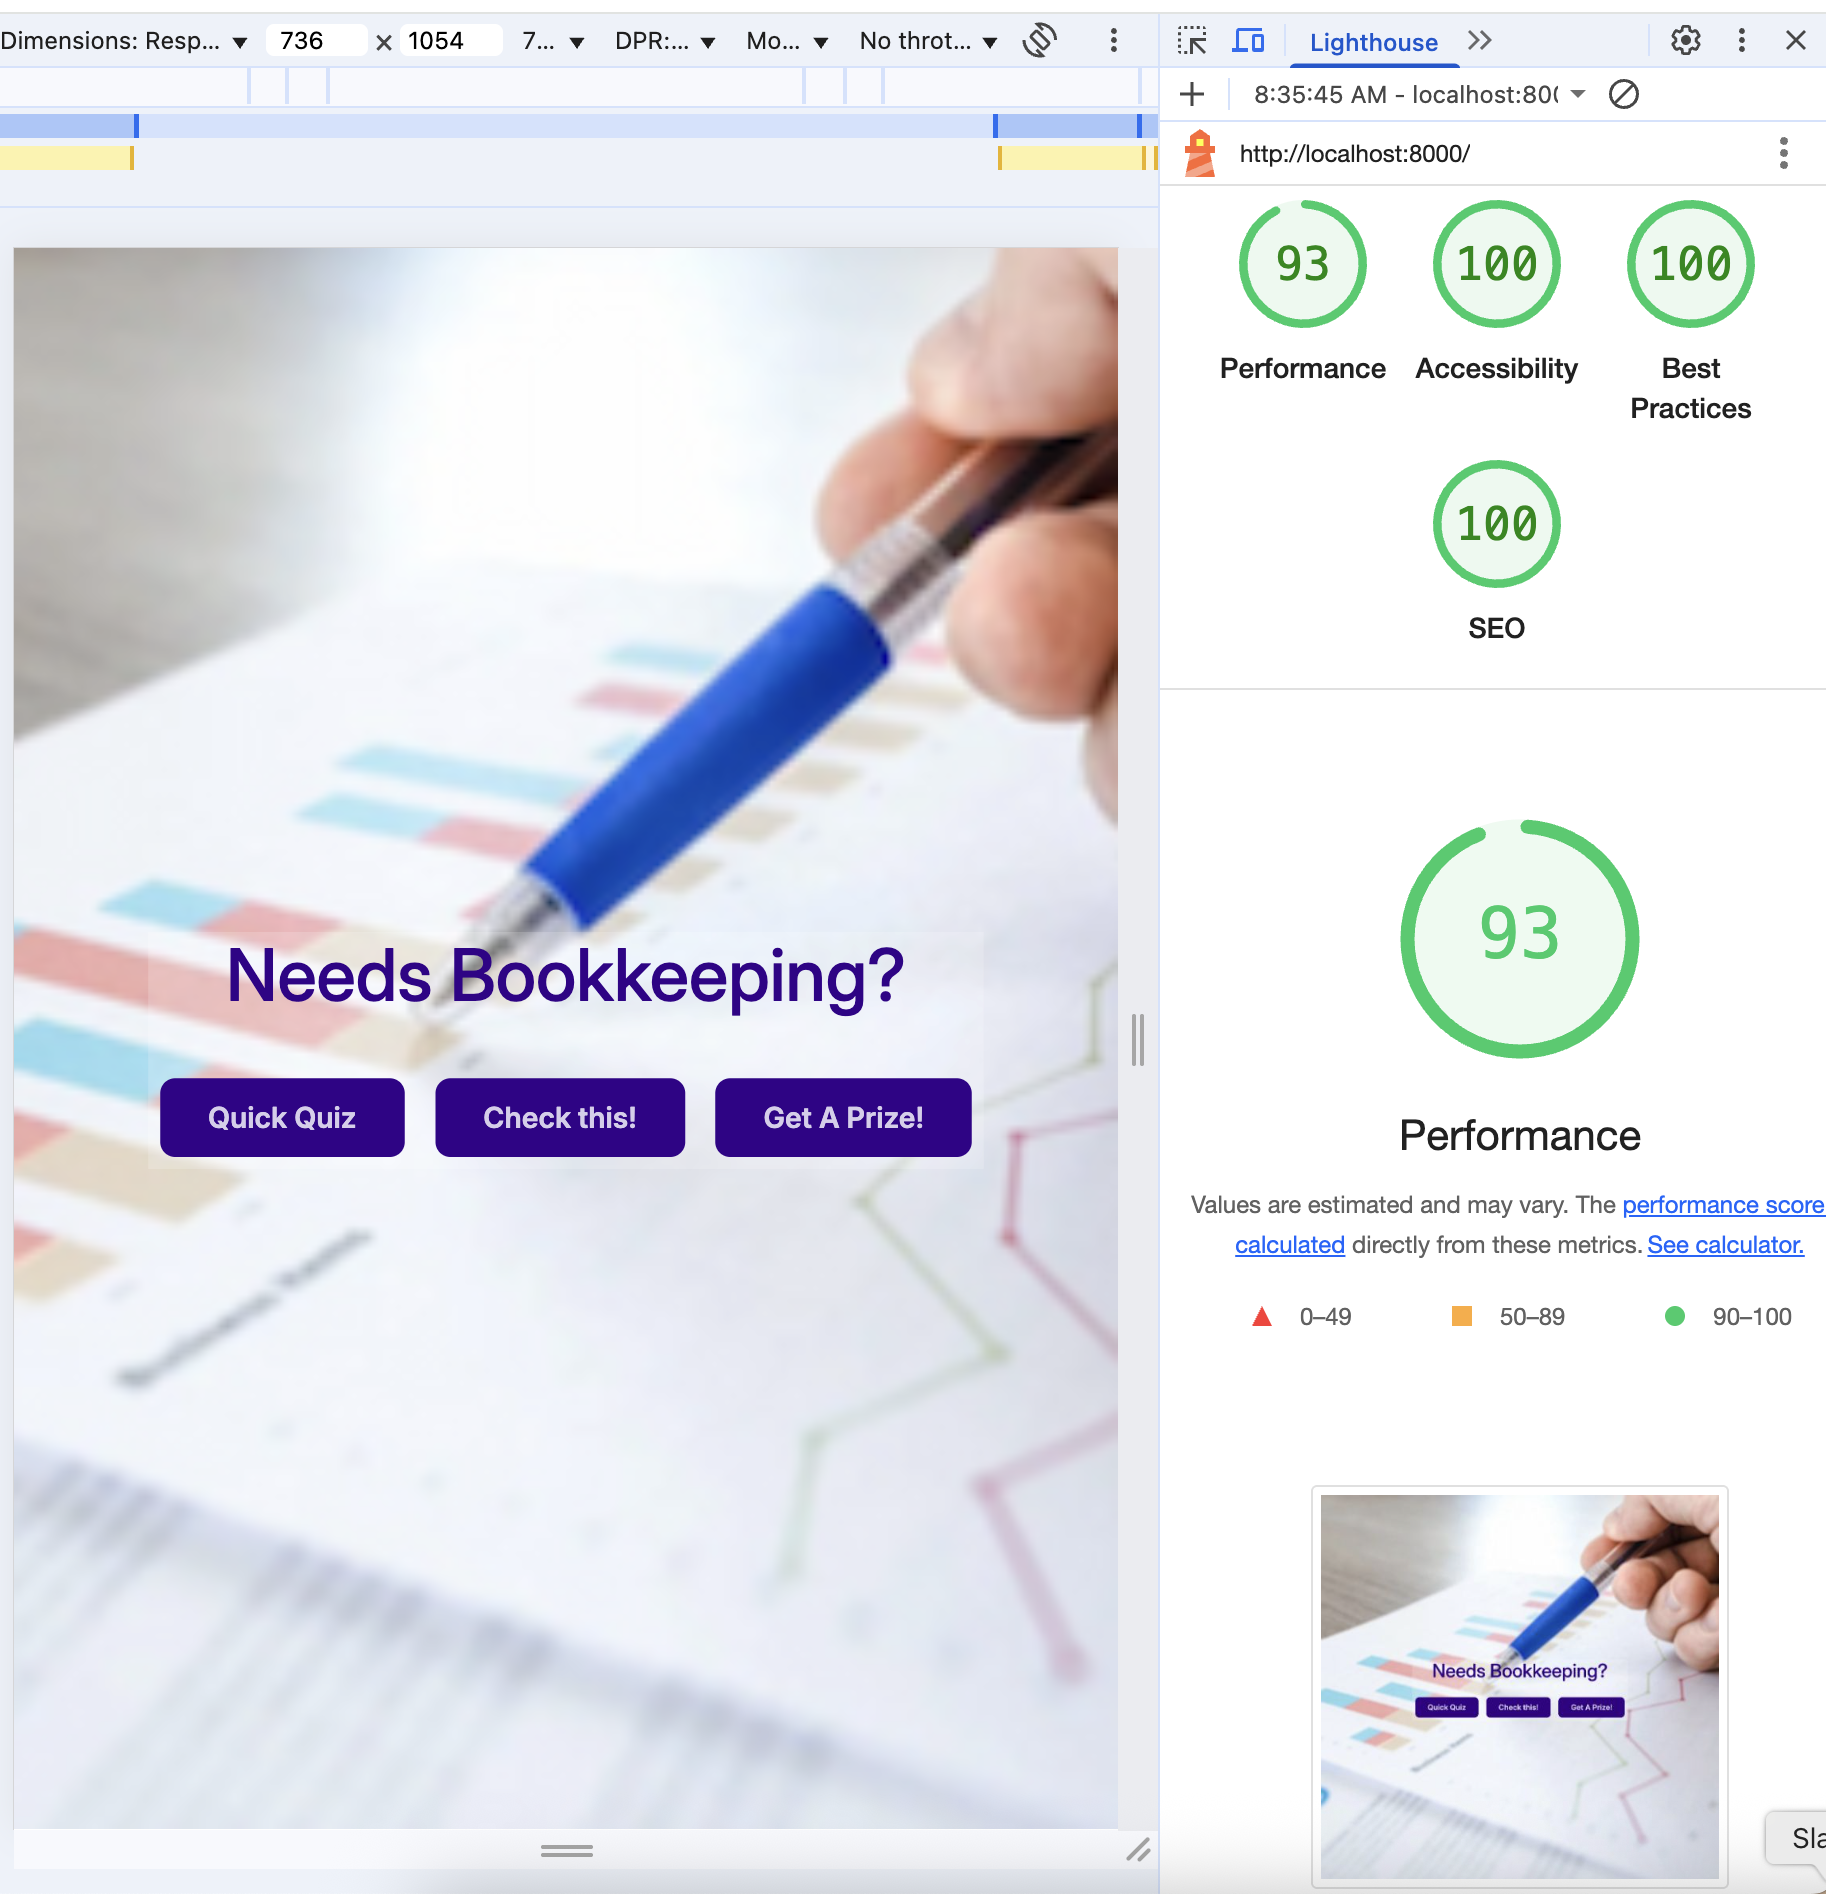
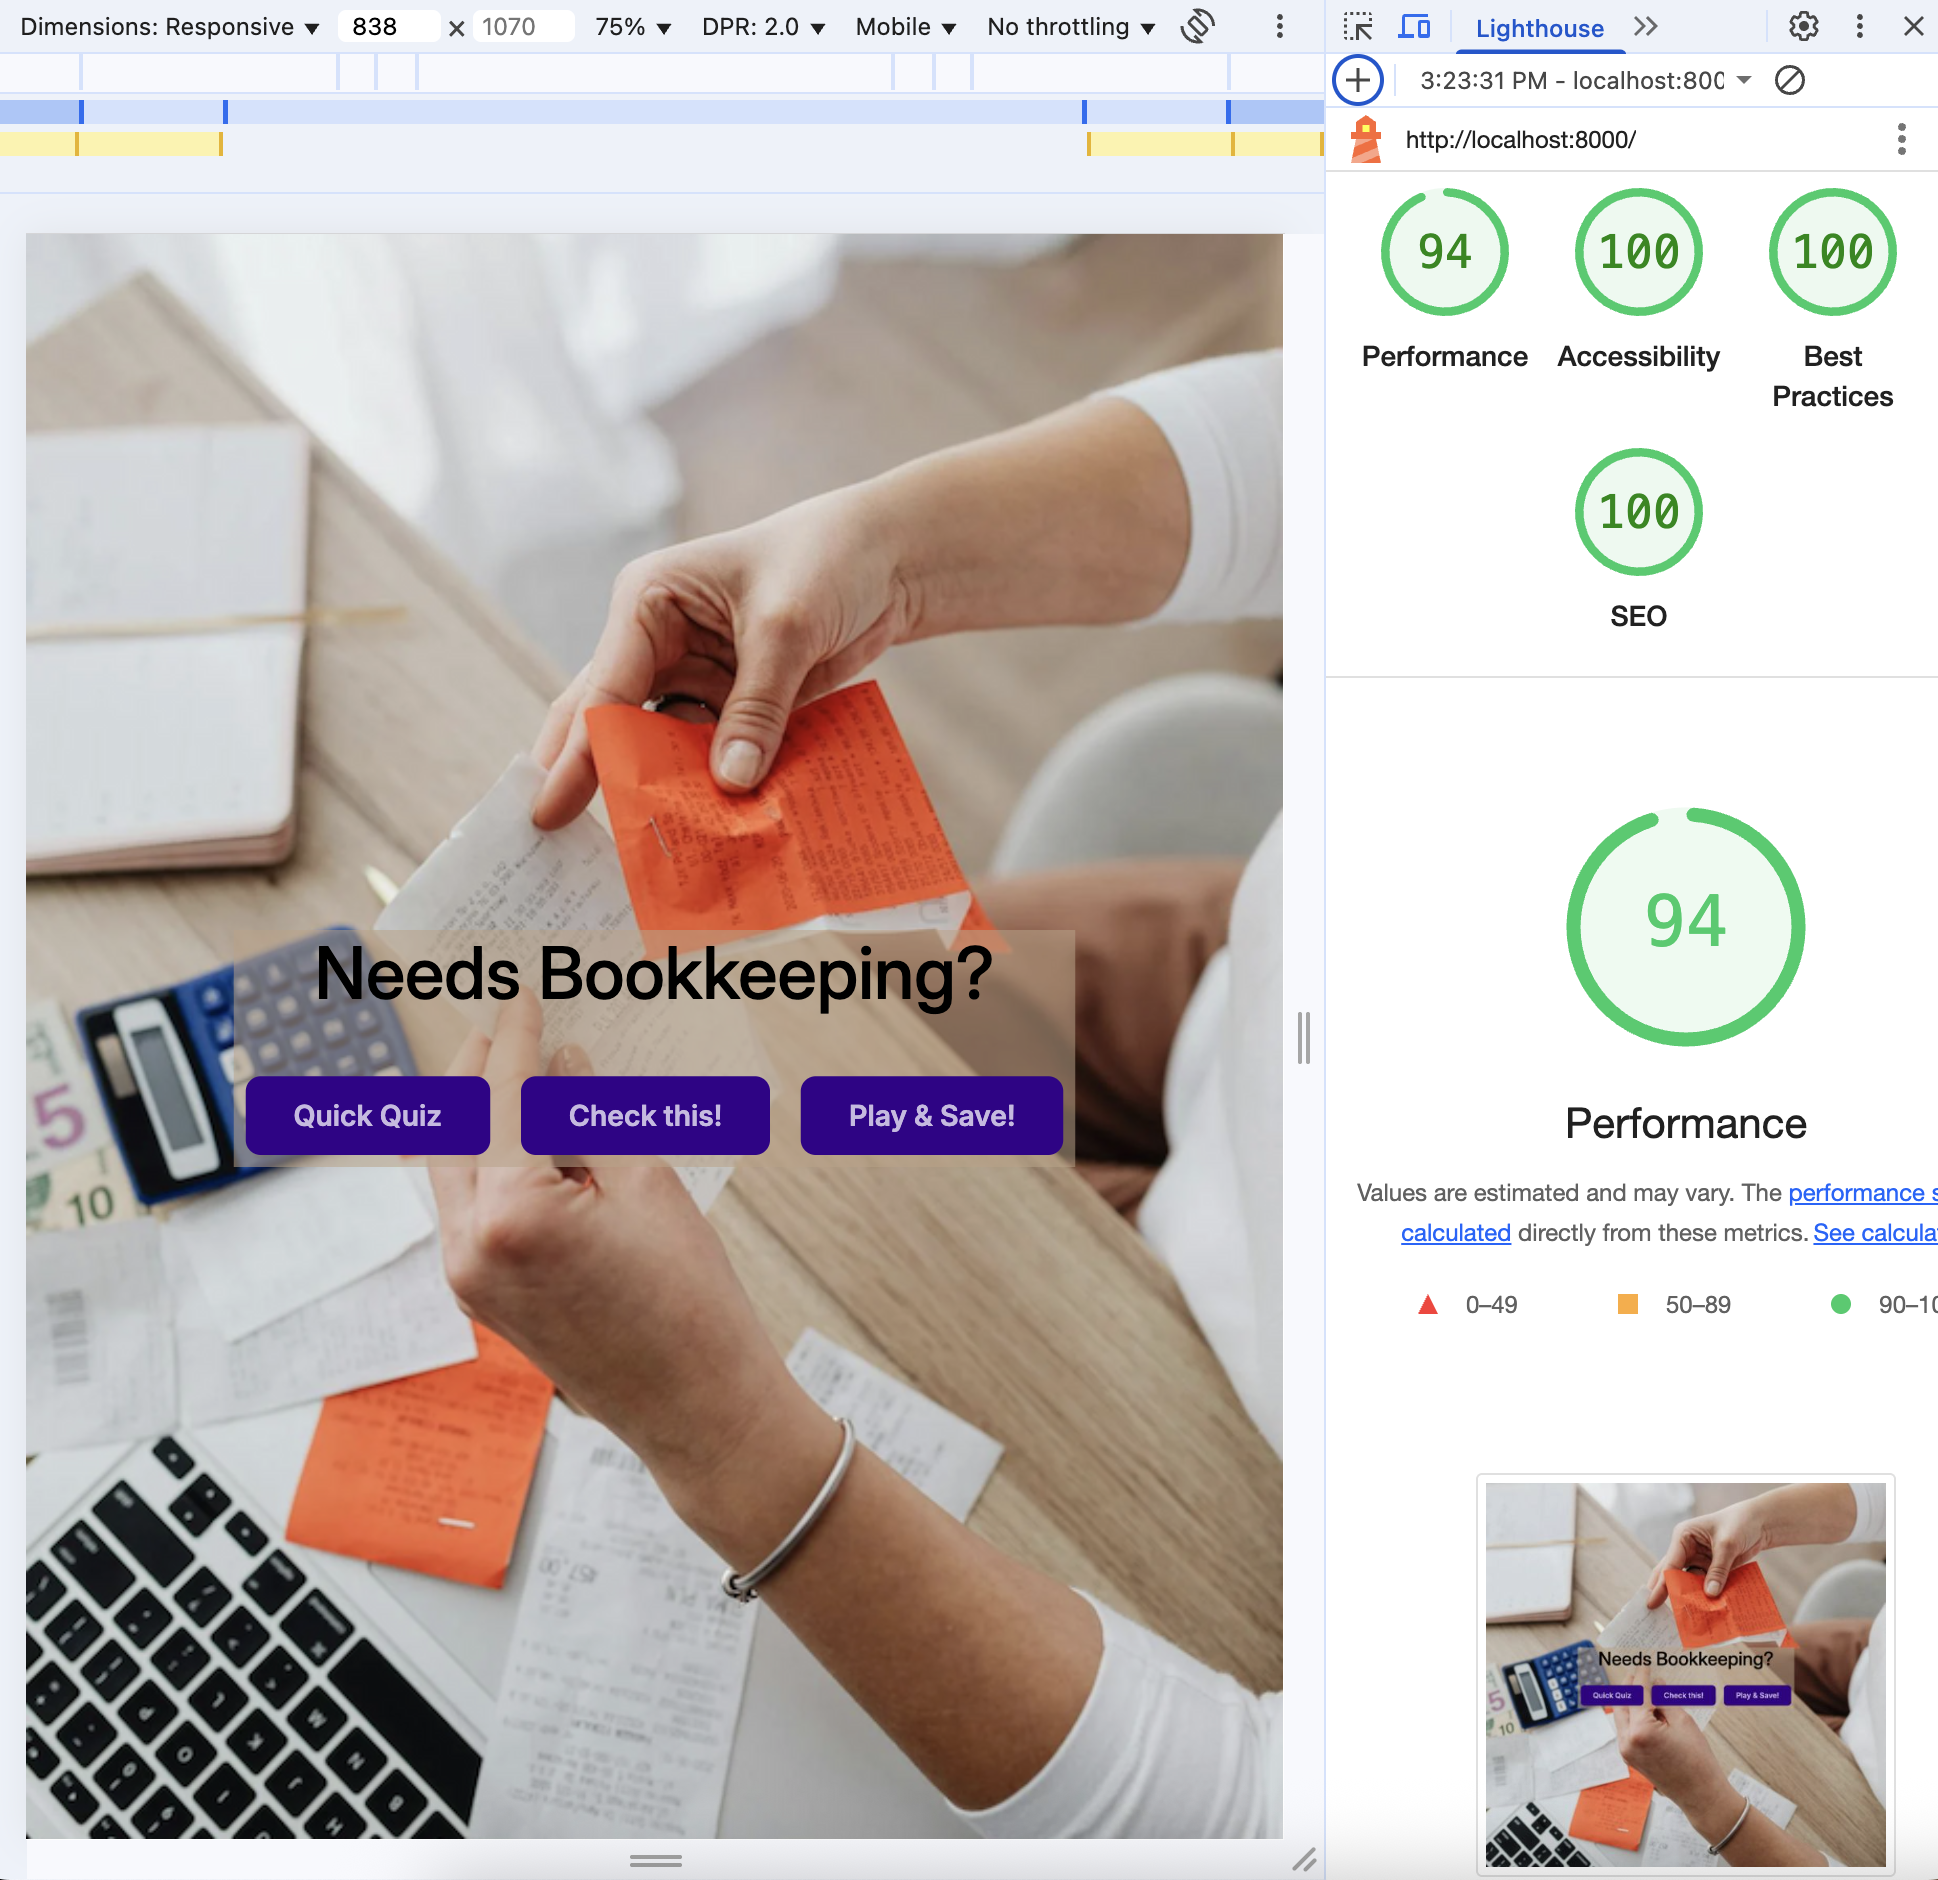
adding img to website and features

diff --git a/assets/js/format1040.js b/assets/js/format1040.js
@@ -1066,7 +1066,7 @@ document.addEventListener("DOMContentLoaded", function () {
         document.getElementById("cssnFbk").innerText = "";
         document.getElementById("ssnPreview").style.display = "none";
         document.getElementById("idPreview").style.display = "none";
-      }, 3000);
+      }, 4000);
     });
     
 

diff --git a/README.md b/README.md
@@ -273,7 +273,7 @@ _Main color palette_
 
 Headline Prompt:
 
-- "Needs Bookkeeping?" – A clear, central question targeting the user’s intent.
+- HOME: "Needs Bookkeeping?" – A clear, central question targeting the user’s intent.
 
 - Background Image: A professional, finance-related image (charts and a hand with a pen) that supports the bookkeeping theme.
 
@@ -293,7 +293,7 @@ Headline Prompt:
 
 - Transparent background or slight blur behind text for better readability on the image.
   
-![quickQuiz_page](assets/images/readme/quickQuiz.png)
+![quickQuiz_page](assets/images/readme/Webpgs/home.png)
 
 
 #### Quiz
@@ -314,8 +314,8 @@ If the score suggests the user might need help (> 6 pts), they are redirected to
 The clean UI, transparent card background, and motivating CTA buttons make the experience smooth and user-friendly.
 
 
-![quiz_page1](assets/images/readme/quiz-p1.png)
-![quiz_page2](assets/images/readme/quiz-p2a.png)
+![quiz_page1](assets/images/readme/Webpgs/quiz-p1.png)
+![quiz_page2](assets/images/readme/Webpgs/quiz-P2a.png)
 
 #### Feedback
 
@@ -343,7 +343,7 @@ A supportive summary that explains the result:
   - Clear visual hierarchy with bold headlines, informative content, and strong CTAs.
   - Colorful, accessible buttons for quick action.
 
-![feedback_page](assets/images/readme/feedback.png)
+![feedback_page](assets/images/readme/Webpgs/feedback.png)
 
 #### Format 1040
 
@@ -387,15 +387,24 @@ Submission Feedback
 - Success Message: Large, bold confirmation banner: “SUCCESS! Form submitted successfully!”
 - Submit Button: Dark Res and hover styled in yellow with strong contrast and clear call to action.
 
-![Format 1040_page](assets/images/readme/f.png)
-![Format 1040_page](assets/images/readme/f1.png)
-![Format 1040_page](assets/images/readme/f2.png)
-![Format 1040_page](assets/images/readme/f3.png)
-![Format 1040_page](assets/images/readme/f4.png)
-![Format 1040_page](assets/images/readme/f5.png)
-![Format 1040_page](assets/images/readme/f6.png)
-![Format 1040_page](assets/images/readme/f7.png)
+![Format 1040_page](assets/images/readme/fF1040/format1040.png)
+![Format 1040_page](assets/images/readme/fF1040/fi.png)
+![Format 1040_page](assets/images/readme/fF1040/fi2.png)
 
+![Format 1040_page](assets/images/readme/fF1040/fsvsi.png)
+![Format 1040_page](assets/images/readme/fF1040/fsvsnm.png)
+![Format 1040_page](assets/images/readme/fF1040/fsvconfirm.png)
+![Format 1040_page](assets/images/readme/fF1040/fsvconfirm.png)
+
+![Format 1040_page](assets/images/readme/fF1040/fpifsv.png)
+
+![Format 1040_page](assets/images/readme/fF1040/fdob.png)
+
+![Format 1040_page](assets/images/readme/fF1040/fzr.png)
+![Format 1040_page](assets/images/readme/fF1040/fzcv.png)
+
+![Format 1040_page](assets/images/readme/fF1040/fv.png)
+![Format 1040_page](assets/images/readme/fF1040/fs.png)
 
 
 #### Check This!
